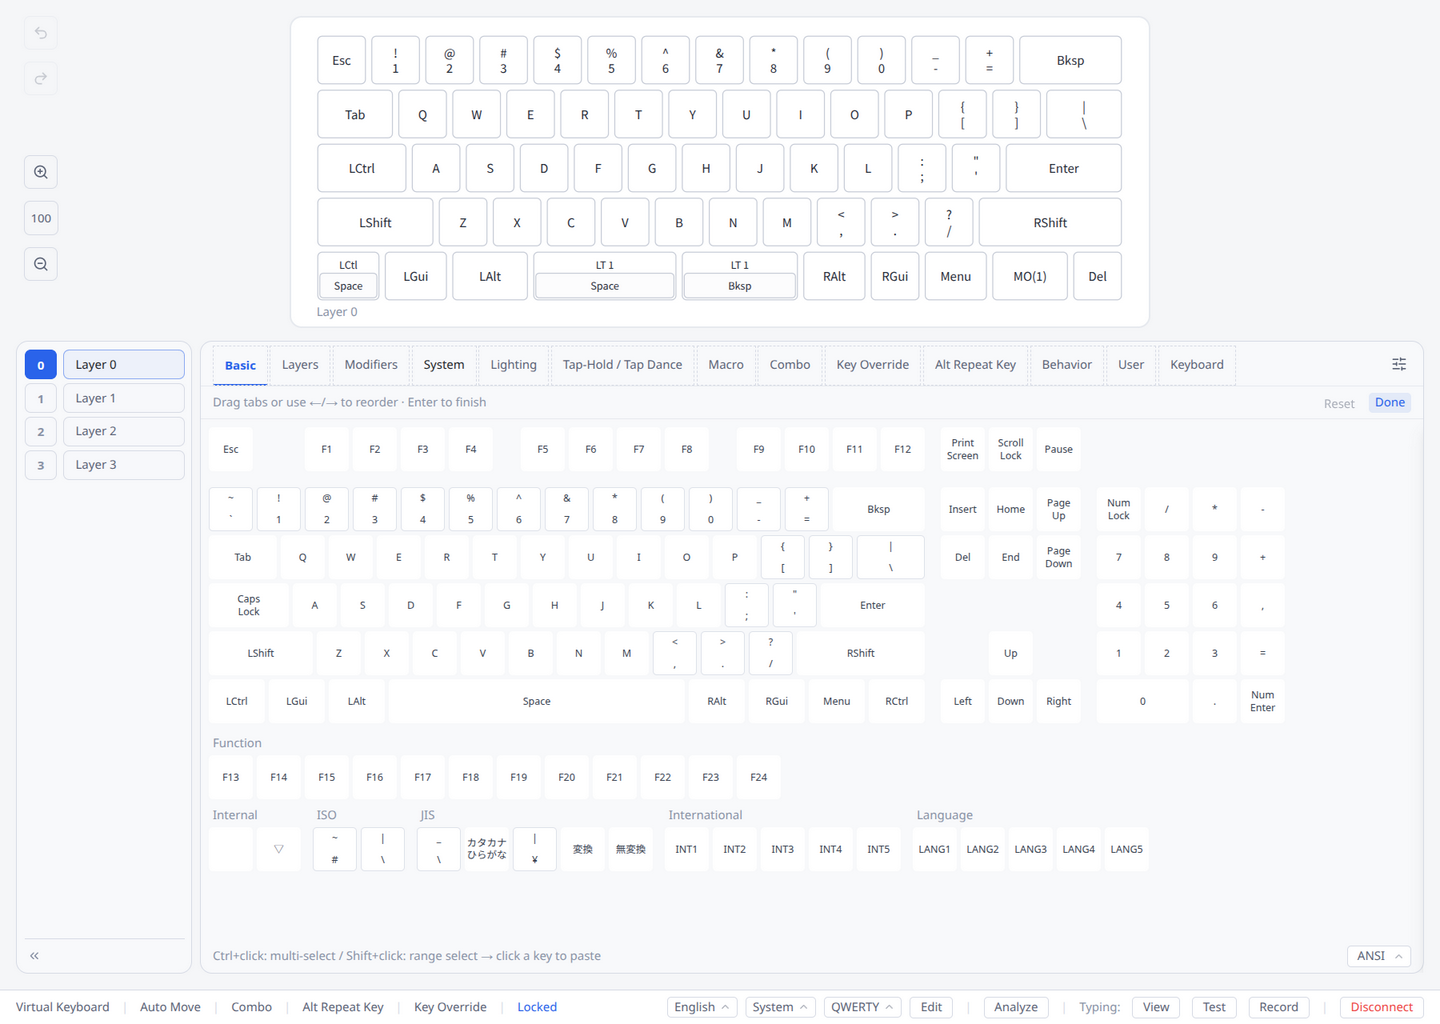
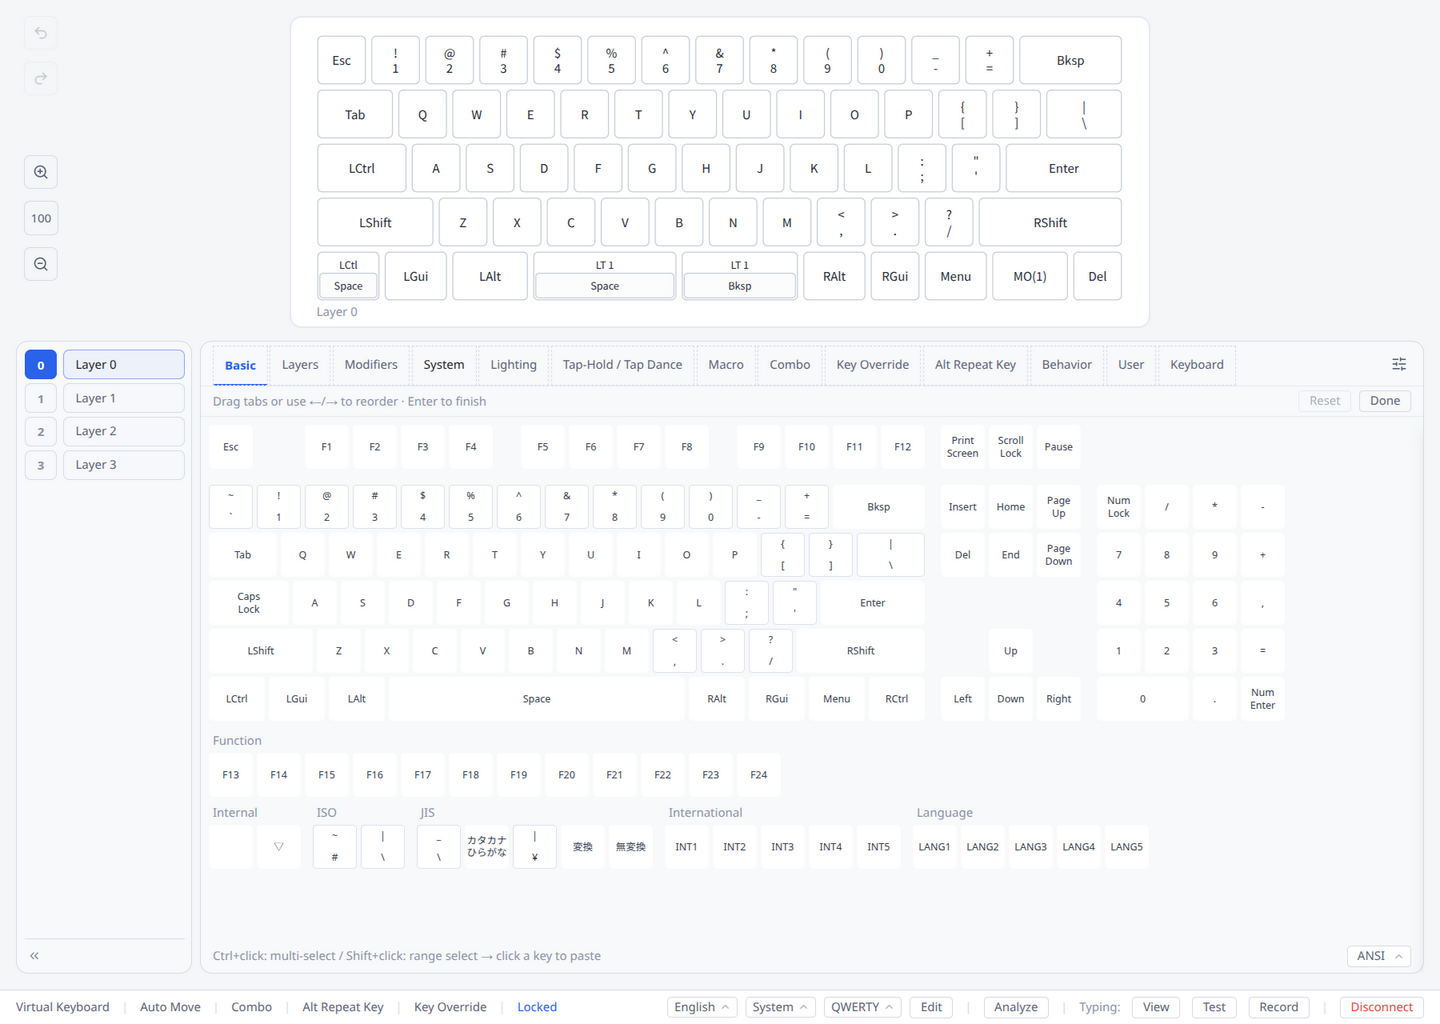
fix(ui): tighten keyboard, focus and drag handling in keycode tab reorder mode
- The click of the long-press that opened the mode never switches tabs,
  even when Enter or Esc closed the mode before the button was released.
- Done and Reset hand the focus back to a tab, and Reset is announced.
- Enter on a non-tab button in the tab bar presses that button.
- Reset and Done use the compact bordered button style.
- A dragged tab carries its id under an app-specific type, so dropping it
  on a text field inserts nothing.

diff --git a/src/renderer/components/keycodes/use-keycode-tab-reorder.ts b/src/renderer/components/keycodes/use-keycode-tab-reorder.ts
@@ -19,9 +19,8 @@ export const LONG_PRESS_MS = 500
 /** A press that moves further than this is a scroll or drag, not a long-press. */
 const LONG_PRESS_MOVE_TOLERANCE_PX = 8
 
-/** Marks the mode's own buttons (Reset / Done in `KeycodeTabBar.tsx`):
- *  Enter activates them instead of closing the mode. */
-const TAB_REORDER_ACTION_SELECTOR = '[data-tab-reorder-action]'
+/** Drag data type for a tab, so a tab dropped on a text field inserts nothing. */
+const TAB_DRAG_MIME = 'application/x-pipette-keycode-tab'
 
 interface Args {
   /** Only the keymap editor's picker edits the order. */
@@ -30,10 +29,14 @@ interface Args {
   visibleIds: readonly string[]
   barRef: RefObject<HTMLElement | null>
   onSelectTab: (id: string) => void
+  /** The selected tab; gets the focus when the mode's own buttons lose it. */
+  selectedId: string
   /** Screen-reader text for a finished move (1-based position). */
   describeMove: (id: string, position: number, total: number) => string
   /** Screen-reader text announced when the mode opens. */
   enterMessage: string
+  /** Screen-reader text announced after Reset. */
+  resetMessage: string
 }
 
 /** True when something (a modal overlay) sits on top of the bar's centre. */
@@ -44,7 +47,9 @@ function isCovered(bar: HTMLElement | null): boolean {
   return hit !== null && !bar.contains(hit)
 }
 
-export function useKeycodeTabReorder({ enabled, visibleIds, barRef, onSelectTab, describeMove, enterMessage }: Args) {
+export function useKeycodeTabReorder({
+  enabled, visibleIds, barRef, onSelectTab, selectedId, describeMove, enterMessage, resetMessage,
+}: Args) {
   const { order, setOrder, scopeKey } = useKeycodeTabOrder()
   const full = useMemo(() => resolveFullOrder(order), [order])
   const orderedIds = useMemo(() => projectVisible(visibleIds, full), [visibleIds, full])
@@ -58,9 +63,14 @@ export function useKeycodeTabReorder({ enabled, visibleIds, barRef, onSelectTab,
   const pressRef = useRef<{ timer: number; x: number; y: number } | null>(null)
   const dragIdRef = useRef<string | null>(null)
   // The long-press that opened the mode ends in a click on the same tab;
-  // that click must not switch tabs.
+  // that click must not switch tabs, even when the mode closed (Enter / Esc)
+  // before the button was released. Cleared once that press is released or
+  // cancelled, after the click it produces.
   const suppressClickRef = useRef(false)
+  const releaseListenerRef = useRef<(() => void) | null>(null)
   const pendingFocusRef = useRef<string | null>(null)
+  const [focusRequest, setFocusRequest] = useState(0)
+  const lastFocusedTabRef = useRef<string | null>(null)
   const lastWrittenRef = useRef(order)
 
   const cancelPress = useCallback(() => {
@@ -74,13 +84,44 @@ export function useKeycodeTabReorder({ enabled, visibleIds, barRef, onSelectTab,
     setDropTargetId(null)
   }, [])
 
+  const stopWatchingRelease = useCallback(() => {
+    releaseListenerRef.current?.()
+    releaseListenerRef.current = null
+  }, [])
+
+  const watchRelease = useCallback(() => {
+    stopWatchingRelease()
+    const onRelease = (): void => {
+      stopWatchingRelease()
+      // The click follows pointerup in the same task.
+      window.setTimeout(() => { suppressClickRef.current = false }, 0)
+    }
+    window.addEventListener('pointerup', onRelease, true)
+    window.addEventListener('pointercancel', onRelease, true)
+    releaseListenerRef.current = () => {
+      window.removeEventListener('pointerup', onRelease, true)
+      window.removeEventListener('pointercancel', onRelease, true)
+    }
+  }, [stopWatchingRelease])
+
+  /** Focuses the last focused tab (or the selected one) after the render. */
+  const focusTab = useCallback((id?: string) => {
+    pendingFocusRef.current = id ?? lastFocusedTabRef.current ?? selectedId
+    setFocusRequest((n) => n + 1)
+  }, [selectedId])
+
   const exit = useCallback(() => {
     cancelPress()
     clearDrag()
-    suppressClickRef.current = false
     setActive(false)
     setAnnouncement('')
   }, [cancelPress, clearDrag])
+
+  /** Exit that keeps keyboard focus in the tab bar (Done, Enter, Esc). */
+  const finish = useCallback(() => {
+    exit()
+    focusTab()
+  }, [exit, focusTab])
 
   const enter = useCallback(() => {
     setActive(true)
@@ -101,9 +142,12 @@ export function useKeycodeTabReorder({ enabled, visibleIds, barRef, onSelectTab,
     if (order === undefined) return
     lastWrittenRef.current = undefined
     setOrder(undefined)
+    setAnnouncement(resetMessage)
+    // Reset disables itself; keep the focus in the tab bar.
+    focusTab()
   }
 
-  useEffect(() => cancelPress, [cancelPress])
+  useEffect(() => () => { cancelPress(); stopWatchingRelease() }, [cancelPress, stopWatchingRelease])
   useEffect(() => { exit() }, [scopeKey, exit])
   useEffect(() => { if (!enabled) exit() }, [enabled, exit])
 
@@ -128,16 +172,22 @@ export function useKeycodeTabReorder({ enabled, visibleIds, barRef, onSelectTab,
     }
     // Capture on window runs before the picker's Enter-to-confirm and the
     // editor's Escape handlers, so the mode consumes these two keys first.
+    // Enter on a focused button in the bar that is not a tab (Reset, Done,
+    // the `tabBarRight` controls) presses that button instead; the picker's
+    // own Enter handler would otherwise swallow the native click.
     const onKeyDown = (e: KeyboardEvent): void => {
       if (e.key !== 'Enter' && e.key !== 'Escape') return
       if (e.isComposing || e.keyCode === 229) return
       if (isCovered(bar)) { exit(); return }
       e.preventDefault()
       e.stopPropagation()
-      const action = e.target instanceof Element ? e.target.closest<HTMLElement>(TAB_REORDER_ACTION_SELECTOR) : null
-      if (e.key === 'Enter' && action) { action.click(); return }
+      const button = e.target instanceof Element ? e.target.closest('button') : null
+      if (e.key === 'Enter' && button && bar?.contains(button) && !button.hasAttribute('data-keycode-tab')) {
+        button.click()
+        return
+      }
       if (e.key === 'Escape' && dragIdRef.current) { clearDrag(); return }
-      exit()
+      finish()
     }
     // Any mutation in the app can mean a modal opened, but `isCovered`
     // forces layout, so check at most once per frame.
@@ -158,9 +208,10 @@ export function useKeycodeTabReorder({ enabled, visibleIds, barRef, onSelectTab,
       observer.disconnect()
       if (frame !== null) cancelAnimationFrame(frame)
     }
-  }, [active, barRef, exit, clearDrag])
+  }, [active, barRef, exit, finish, clearDrag])
 
-  // A move re-inserts the tab's DOM node, which drops its focus.
+  // A move re-inserts the tab's DOM node, which drops its focus; Done and
+  // Reset hand the focus back to a tab.
   useLayoutEffect(() => {
     const id = pendingFocusRef.current
     if (!id) return
@@ -169,12 +220,13 @@ export function useKeycodeTabReorder({ enabled, visibleIds, barRef, onSelectTab,
     const el = Array.from(tabs).find((tab) => tab.dataset.keycodeTab === id)
     el?.focus()
     el?.scrollIntoView?.({ block: 'nearest', inline: 'nearest' })
-  }, [orderedIds, barRef])
+  }, [orderedIds, focusRequest, barRef])
 
   function tabProps(id: string) {
     return {
       'data-keycode-tab': id,
       draggable: active,
+      onFocus: (): void => { lastFocusedTabRef.current = id },
       onClick: (): void => {
         if (suppressClickRef.current) { suppressClickRef.current = false; return }
         if (!active) onSelectTab(id)
@@ -186,6 +238,7 @@ export function useKeycodeTabReorder({ enabled, visibleIds, barRef, onSelectTab,
         const timer = window.setTimeout(() => {
           pressRef.current = null
           suppressClickRef.current = true
+          watchRelease()
           enter()
         }, LONG_PRESS_MS)
         pressRef.current = { timer, x: e.clientX, y: e.clientY }
@@ -206,14 +259,14 @@ export function useKeycodeTabReorder({ enabled, visibleIds, barRef, onSelectTab,
         if (e.key !== 'ArrowLeft' && e.key !== 'ArrowRight') return
         e.preventDefault()
         const target = orderedIds.indexOf(id) + (e.key === 'ArrowLeft' ? -1 : 1)
-        if (commitMove(id, target)) pendingFocusRef.current = id
+        if (commitMove(id, target)) focusTab(id)
       },
       onDragStart: (e: React.DragEvent): void => {
         if (!active) { e.preventDefault(); return }
         dragIdRef.current = id
         setDragId(id)
         e.dataTransfer.effectAllowed = 'move'
-        e.dataTransfer.setData('text/plain', id)
+        e.dataTransfer.setData(TAB_DRAG_MIME, id)
       },
       onDragOver: (e: React.DragEvent): void => {
         if (!dragIdRef.current) return
@@ -236,5 +289,5 @@ export function useKeycodeTabReorder({ enabled, visibleIds, barRef, onSelectTab,
     }
   }
 
-  return { orderedIds, active, dragId, dropTargetId, announcement, canReset: order !== undefined, exit, reset, tabProps }
+  return { orderedIds, active, dragId, dropTargetId, announcement, canReset: order !== undefined, finish, reset, tabProps }
 }

diff --git a/docs/guide.html b/docs/guide.html
@@ -1042,7 +1042,7 @@ header {
 <ul><li>Drag a tab and drop it on another tab to take that tab's place. Dropping anywhere else, or pressing Esc during the drag, leaves the order unchanged</li><li>With a tab focused, <strong>←</strong> / <strong>→</strong> moves it one place to the left / right. The focus stays on the moved tab</li></ul>
 <p>Each move is saved right away.</p>
 <p><strong>Leaving reorder mode</strong></p>
-<ul><li>Press <strong>Enter</strong> or <strong>Esc</strong>, click <strong>Done</strong>, or click anywhere outside the tabs and the hint row (the click still does what it normally does). Opening a dialog also leaves the mode</li><li>Moves already made are kept</li></ul>
+<ul><li>Press <strong>Enter</strong> or <strong>Esc</strong>, click <strong>Done</strong>, or click anywhere outside the tabs and the hint row (the click still does what it normally does). Opening a dialog also leaves the mode. When a button in the tab bar (such as <strong>Reset</strong>, <strong>Done</strong> or the panel button) has the focus, Enter presses that button instead</li><li>Moves already made are kept</li></ul>
 <p><strong>Reset</strong> puts the tabs back in the default order.</p>
 <p>The order is saved and synced per keyboard. Tabs a keyboard does not show (for example MIDI) keep their place in the order, and a tab added in a later version of Pipette appears at the end. Reset Keyboard Data (§3.14) also clears the order.</p>
 <hr>
@@ -1984,7 +1984,7 @@ header {
 <ul><li>タブをドラッグして別のタブの上にドロップすると、そのタブの位置に入ります。タブ以外の場所でドロップするか、ドラッグ中に Esc を押すと並びは変わりません</li><li>タブにフォーカスがある状態で <strong>←</strong> / <strong>→</strong> を押すと、そのタブが左 / 右に 1 つ動きます。フォーカスは動かしたタブに残ります</li></ul>
 <p>動かすたびにすぐ保存されます。</p>
 <p><strong>並び替えモードを抜ける</strong></p>
-<ul><li><strong>Enter</strong> か <strong>Esc</strong> を押す、<strong>Done</strong> をクリックする、またはタブとヒントの行以外の場所をクリックします（そのクリックは通常どおり働きます）。ダイアログが開いた時もモードを抜けます</li><li>それまでに動かした並びはそのまま残ります</li></ul>
+<ul><li><strong>Enter</strong> か <strong>Esc</strong> を押す、<strong>Done</strong> をクリックする、またはタブとヒントの行以外の場所をクリックします（そのクリックは通常どおり働きます）。ダイアログが開いた時もモードを抜けます。タブ列のボタン（<strong>Reset</strong>・<strong>Done</strong>・パネルボタンなど）にフォーカスがある時は、Enter はそのボタンを押します</li><li>それまでに動かした並びはそのまま残ります</li></ul>
 <p><strong>Reset</strong> を押すと既定の並びに戻ります。</p>
 <p>並びはキーボードごとに保存・同期されます。そのキーボードで表示されないタブ（MIDI など）も並びの中の位置を保ち、Pipette の新しいバージョンで増えたタブは末尾に表示されます。Reset Keyboard Data (§3.14) でも並びは消えます。</p>
 <hr>

diff --git a/src/renderer/components/keycodes/__tests__/TabbedKeycodes.tabReorder.test.tsx b/src/renderer/components/keycodes/__tests__/TabbedKeycodes.tabReorder.test.tsx
@@ -448,4 +448,72 @@ describe('leaving the mode', () => {
     expect(elementFromPoint).toHaveBeenCalledTimes(1)
     expect(inMode()).toBe(true)
   })
+
+  it('the click of the press that opened the mode never switches tabs, even after Enter closed the mode', () => {
+    const onTabChange = vi.fn()
+    render(<Host onTabChange={onTabChange} />)
+    fireEvent.pointerDown(tab('system'), { button: 0, clientX: 10, clientY: 10 })
+    act(() => { vi.advanceTimersByTime(LONG_PRESS_MS) })
+    expect(inMode()).toBe(true)
+    fireEvent.keyDown(tab('system'), { key: 'Enter' })
+    expect(inMode()).toBe(false)
+    fireEvent.pointerUp(tab('system'))
+    fireEvent.click(tab('system'))
+    expect(selected()).toBe('basic')
+    expect(onTabChange).not.toHaveBeenCalled()
+    // Once that press is over, clicks work again.
+    act(() => { vi.advanceTimersByTime(0) })
+    fireEvent.click(tab('system'))
+    expect(selected()).toBe('system')
+  })
+
+  it('Done hands the focus back to the last focused tab', () => {
+    render(<Host />)
+    enterByKeyboard('layers')
+    const done = screen.getByTestId('keycode-tab-reorder-done')
+    done.focus()
+    fireEvent.click(done)
+    expect(inMode()).toBe(false)
+    expect(document.activeElement).toBe(tab('layers'))
+  })
+
+  it('Done focuses the selected tab when no tab was focused', () => {
+    render(<Host />)
+    longPress('system')
+    ;(document.activeElement as HTMLElement | null)?.blur()
+    fireEvent.click(screen.getByTestId('keycode-tab-reorder-done'))
+    expect(document.activeElement).toBe(tab('basic'))
+  })
+
+  it('Reset keeps the focus in the tab bar and announces the default order', () => {
+    render(<Host initial={['system']} />)
+    enterByKeyboard('layers')
+    const reset = screen.getByTestId('keycode-tab-reorder-reset')
+    reset.focus()
+    fireEvent.click(reset)
+    expect(document.activeElement).toBe(tab('layers'))
+    expect(screen.getByText('editor.keymap.tabReorder.resetDone')).toBeInTheDocument()
+  })
+
+  it('Enter on a non-tab button in the bar presses it; on a tab it still finishes', () => {
+    const onGear = vi.fn()
+    render(<Host tabBarRight={<button type="button" onClick={onGear}>gear</button>} />)
+    enterByKeyboard()
+    const gear = screen.getByText('gear')
+    gear.focus()
+    fireEvent.keyDown(gear, { key: 'Enter' })
+    expect(onGear).toHaveBeenCalledTimes(1)
+    expect(inMode()).toBe(true)
+    fireEvent.keyDown(tab('basic'), { key: 'Enter' })
+    expect(inMode()).toBe(false)
+  })
+
+  it('drags carry the tab id under an app-specific type, not as text', () => {
+    render(<Host />)
+    enterByKeyboard()
+    const setData = vi.fn()
+    fireEvent.dragStart(tab('system'), { dataTransfer: { setData } })
+    expect(setData).toHaveBeenCalledWith('application/x-pipette-keycode-tab', 'system')
+    expect(setData).not.toHaveBeenCalledWith('text/plain', expect.anything())
+  })
 })

diff --git a/src/renderer/components/keycodes/KeycodeTabBar.tsx b/src/renderer/components/keycodes/KeycodeTabBar.tsx
@@ -3,7 +3,7 @@
 import { useId, useMemo, useRef, type ReactNode } from 'react'
 import { useTranslation } from 'react-i18next'
 import { X } from 'lucide-react'
-import { ICON_MD, SEGMENT_TOGGLE_ACTIVE, SEGMENT_TOGGLE_INACTIVE } from '../../constants/ui-tokens'
+import { ICON_MD } from '../../constants/ui-tokens'
 import { Tooltip } from '../ui/Tooltip'
 import type { KeycodeCategory } from './categories'
 import { KEYBOARD_TAB_ID } from './keycode-tab-order'
@@ -27,6 +27,8 @@ const TAB_INACTIVE = 'border-b-transparent text-content-secondary hover:text-con
 // Outline only: an outline takes no layout space, so entering the mode
 // under a held pointer never moves the tabs.
 const TAB_REORDERING = 'cursor-grab outline outline-1 outline-dashed -outline-offset-1'
+// Same look as the status bar's compact bordered buttons (`QuickSettingsSelects.tsx`).
+const MODE_BUTTON = 'flex shrink-0 items-center justify-center whitespace-nowrap rounded border border-edge px-2.5 py-1 text-xs leading-none text-content-secondary transition-colors hover:text-content focus:border-accent focus:outline-none disabled:opacity-50'
 
 /** The tab bar at the top of `TabbedKeycodes`: one tab per category, the
  *  optional "Keyboard" tab, the right-hand slot (`tabBarRight` + close) and,
@@ -58,9 +60,11 @@ export function KeycodeTabBar({
     visibleIds,
     barRef,
     onSelectTab: selectTab,
+    selectedId: effectiveTab,
     describeMove: (id, position, total) =>
       t('editor.keymap.tabReorder.moved', { name: t(labelKeys.get(id) ?? id), position, total }),
     enterMessage: t('editor.keymap.tabReorder.hint'),
+    resetMessage: t('editor.keymap.tabReorder.resetDone'),
   })
 
   function tabClassName(id: string): string {
@@ -112,9 +116,8 @@ export function KeycodeTabBar({
           <Tooltip content={t('editor.keymap.tabReorder.resetLabel')} wrapperClassName="ml-auto">
             <button
               type="button"
-              data-tab-reorder-action=""
               data-testid="keycode-tab-reorder-reset"
-              className={`${SEGMENT_TOGGLE_INACTIVE} disabled:opacity-50 disabled:cursor-not-allowed`}
+              className={MODE_BUTTON}
               disabled={!reorder.canReset}
               onClick={reorder.reset}
             >
@@ -123,10 +126,9 @@ export function KeycodeTabBar({
           </Tooltip>
           <button
             type="button"
-            data-tab-reorder-action=""
             data-testid="keycode-tab-reorder-done"
-            className={SEGMENT_TOGGLE_ACTIVE}
-            onClick={reorder.exit}
+            className={MODE_BUTTON}
+            onClick={reorder.finish}
           >
             {t('common.done')}
           </button>

diff --git a/docs/OPERATION-GUIDE.md b/docs/OPERATION-GUIDE.md
@@ -1226,7 +1226,7 @@ Each move is saved right away.
 
 **Leaving reorder mode**
 
-- Press **Enter** or **Esc**, click **Done**, or click anywhere outside the tabs and the hint row (the click still does what it normally does). Opening a dialog also leaves the mode
+- Press **Enter** or **Esc**, click **Done**, or click anywhere outside the tabs and the hint row (the click still does what it normally does). Opening a dialog also leaves the mode. When a button in the tab bar (such as **Reset**, **Done** or the panel button) has the focus, Enter presses that button instead
 - Moves already made are kept
 
 **Reset** puts the tabs back in the default order.
